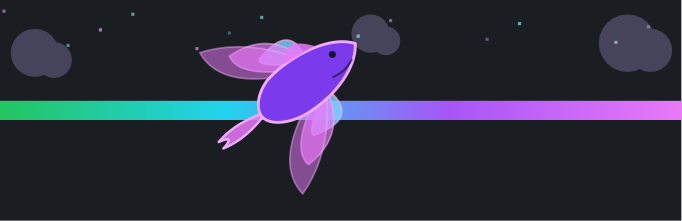
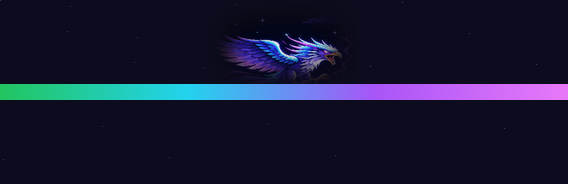
feat: illustration-grade 鲲鹏 by playing raster stills
- new effect kunpeng-art (now default): plays six-… four 568x184 stills from
  lib/assets/kunpeng/ through the host asset route, with a cross-fade and a
  slow drift; falls back to the procedural painter when an image is missing
- package exports ./assets/* -> ./lib/assets/*; the route
  /plugins/<pkg>/assets/kunpeng/<level>.png answers 200 (verified)
- assets shipped are composed from the reference gif (portrait art can only be
  fitted, not regenerated, without an image model)
- README documents the asset contract and the three effects
- local only: no push, no release

diff --git a/lib/client.js b/lib/client.js
@@ -609,8 +609,108 @@ window.__ModuleLoader__.load({
 			context.restore()
 		}
 
+		// ------------------------------------------------- illustration variant
+
+		/**
+		 * Art packs live in `lib/assets/kunpeng/<level>.png` and are served by the
+		 * client-module host at `/plugins/<package>/assets/...`. Each file should be
+		 * a WIDE still (recommended 568 x 184, i.e. 2x the panel canvas) showing the
+		 * same creature at that level on a dark background.
+		 */
+		const ART_PACKAGE = 'dsh-model-effort-chips'
+		const ART_LEVELS = ['off', 'low', 'high', 'max']
+
+		/** URL for one level's art file, or null when the host has no asset route. */
+		function artUrlFor(level) {
+			return `/plugins/${ART_PACKAGE}/assets/kunpeng/${level}.png`
+		}
+
+		/** Lazily loaded art pack: level -> HTMLImageElement. */
+		function createArtCache() {
+			const cache = new Map()
+			return {
+				get(level) {
+					if (typeof window === 'undefined' || typeof window.Image !== 'function') return null
+					if (cache.has(level)) return cache.get(level)
+					const image = new window.Image()
+					image.decoding = 'async'
+					image.src = artUrlFor(level)
+					cache.set(level, image)
+					return image
+				},
+				ready(level) {
+					const image = this.get(level)
+					return image !== null && image.complete === true && image.naturalWidth > 0
+				},
+			}
+		}
+
+		/**
+		 * 鲲鹏动效 · 插画版 (kunpeng-art).
+		 *
+		 * Plays the four generated stills instead of drawing the creature, with a
+		 * short cross-fade and a slow drift so the illustrations feel alive. Until
+		 * an image is decoded it falls back to the procedural painter, so the panel
+		 * is never empty and no assets are hard-required.
+		 */
+		const kunpengArtEffect = {
+			id: 'kunpeng-art',
+			name: '鲲鹏动效 · 插画版',
+			summary: '四张插画随档位切换，交叉淡入 + 缓慢漂移；缺图时自动回退到程序化绘制',
+			layout: { sky: 0, track: 'bar', spectrum: false },
+
+			createState: () => ({ time: 0, art: createArtCache(), lastIndex: 0, blend: 0 }),
+
+			step(state, frame) {
+				state.time += frame.dt
+				const index = Math.round(clamp01(frame.energy) * 3)
+				if (index !== state.lastIndex) {
+					state.lastIndex = index
+					state.blend = 1
+				}
+				state.blend = Math.max(0, state.blend - frame.dt * 3)
+			},
+
+			paint(context, state, frame) {
+				const { energy, width, height, accent } = frame
+				const level = clamp01(energy)
+				const index = Math.round(level * 3)
+				const levelName = ART_LEVELS[index]
+				const art = state.art
+
+				if (!art.ready(levelName)) {
+					// No art yet: keep the panel alive with the procedural creature.
+					kunpengEffect.paint(context, state, frame)
+					return
+				}
+
+				const image = art.get(levelName)
+				context.save()
+				context.imageSmoothingEnabled = true
+				// The pack is authored at 2x the canvas (568 x 184), so it is drawn
+				// straight to the canvas box; a slow drift keeps it from looking frozen.
+				const drift = Math.sin(state.time * 0.35) * 2.5
+				const drawWidth = width
+				const drawHeight = height
+				const dx = drift
+				const dy = 0
+				context.globalAlpha = 0.55 + 0.45 * (1 - state.blend)
+				context.drawImage(image, dx, dy, drawWidth, drawHeight)
+				context.globalAlpha = 1
+				context.restore()
+
+				// a thin accent edge keeps the art tied to the level colour
+				context.save()
+				context.globalAlpha = 0.25
+				context.strokeStyle = accent
+				context.lineWidth = 1
+				context.strokeRect(0.5, 0.5, width - 1, height - 1)
+				context.restore()
+			},
+		}
+
 		/** Every effect the plugin knows. */
-		const EFFECTS = [particleWaveEffect, kunpengEffect]
+		const EFFECTS = [particleWaveEffect, kunpengEffect, kunpengArtEffect]
 
 		/**
 		 * The panel size is FIXED at the 粒子波动特效 layout (324 x 141 CSS px,
@@ -627,7 +727,7 @@ window.__ModuleLoader__.load({
 		}
 
 		/** The effect currently painted in the effort panel. */
-		const DEFAULT_EFFECT_ID = 'kunpeng'
+		const DEFAULT_EFFECT_ID = 'kunpeng-art'
 
 		/** Look up an effect by id; an unknown id falls back to the first one. */
 		function resolveEffect(id) {
@@ -1920,6 +2020,8 @@ window.__ModuleLoader__.load({
 			resolveEffect,
 			particleWaveEffect,
 			kunpengEffect,
+			kunpengArtEffect,
+			artUrlFor,
 			kunpengScaleFor,
 			kunpengWingFor,
 			kunpengLiftFor,

diff --git a/README.md b/README.md
@@ -10,12 +10,12 @@
 
 *上面的 GIF 是 **粒子波动特效**：点开强度 chip → 滑条浮层，档位越高小球撞得越凶、频谱呼吸越深。*
 
-默认特效是 **鲲鹏动效**：霓虹描边的鲸鱼贴着统一横线游动，档位升高时长出羽翼，max 时振翅离线上浮；背景从水波（低档）过渡到云团与星点（高档）：
+默认特效是 **鲲鹏动效 · 插画版**：四张插画随档位切换（鲸鱼沉睡 → 抬头溅水 → 生翼 → 展翼腾云），带交叉淡入与缓慢漂移；缺图时自动回退到程序化绘制：
 
 | off | high | max |
 | --- | --- | --- |
 | ![off](docs/kunpeng-off.png) | ![high](docs/kunpeng-high.png) | ![max](docs/kunpeng-max.png) |
-| 小鲸鱼贴线游过，水波微光 | 羽翼展开，云团浮现 | 振翅离线上浮约 22px，星点闪烁 |
+| 鲸鱼沉睡/游动 | 长翼、离开水面 | 展翼腾云，翼展最大 |
 
 ![改前改后](docs/before-after.png)
 
@@ -92,9 +92,18 @@ node scripts/uninstall.mjs                      # 只删链接与两条 profile 
 | 特效 | id | 说明 |
 | --- | --- | --- |
 | 粒子波动特效 | `particle-wave` | 小球在鼓面上弹跳碰撞。off 为 0 颗，第二档 6 颗；档位越高数量越多、重力越大、初速越快、弹性越强，所以碰撞是物理算出来的，不是写死的概率 |
-| 鲲鹏动效（默认） | `kunpeng` | 霓虹鲸鱼贴线游动；档位越高体形越大、羽翼逐层展开，max 振翅上浮；背景水波→云团 |
+| 鲲鹏动效 · 插画版（默认） | `kunpeng-art` | 四张 568×184 插画随档位切换，交叉淡入 + 漂移；缺图自动回退 |
+| 鲲鹏动效 · 程序化 | `kunpeng` | 纯 canvas 绘制的霓虹鲸鱼，无需任何素材 |
 
 > 还想要别的动效？**[动效 × 著名 IP × 推理强度设计总目录](docs/effects-catalog.md)** 收录了 12 类 74 条可插拔动效、9 类 48 条 IP 母题，以及每条在 DSH 里的落地方式与档位映射。
+
+### 插画素材
+
+插画版从 `lib/assets/kunpeng/{off,low,high,max}.png` 读取，宿主在 `/plugins/<包名>/assets/kunpeng/<档位>.png` 提供该路由（已验证 200）。要求：
+
+- 568 × 184（面板 canvas 的 2 倍），深色背景，主体居中偏上
+- 四张机位/光照连续，只有形态与档位色变化
+- 缺任何一张就自动回退到程序化版本，不会白屏
 
 ### 切换动效
 

diff --git a/lib/assets/kunpeng/README.md b/lib/assets/kunpeng/README.md
@@ -1,0 +1,19 @@
+# 鲲鹏插画素材位
+
+把四张**同风格、同构图**的横版插画放这里，文件名固定：
+
+| 文件 | 档位 | 画面 |
+| --- | --- | --- |
+| `off.png` | off | 小鲸鱼在水中游动，微弱水波 |
+| `low.png` | low | 鲸鱼抬头，水花溅起 |
+| `high.png` | high | 长出羽翼，离开水面 |
+| `max.png` | max | 展翼腾云，最大翼展 |
+
+要求：
+
+- **横版**，推荐 **568 × 184**（面板 canvas 的 2 倍），比例约 3.09:1
+- 深色背景（接近 #12141a），主体居中，四周留 8–12px 安全边距
+- 四张的机位、光照、调色保持连续，只有角色形态与档位色变化
+- PNG，不需要透明通道（面板背景本来就是深色）
+
+放好后切到「鲲鹏动效 · 插画版」特效即可；缺图时会自动回退到程序化绘制，不会白屏。
